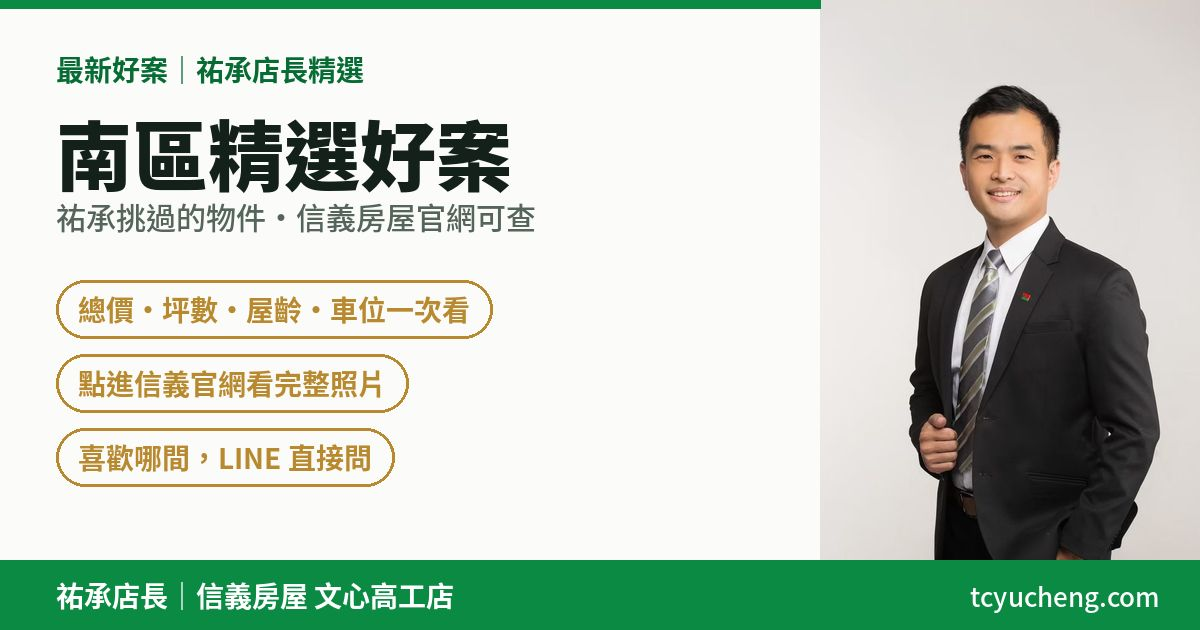
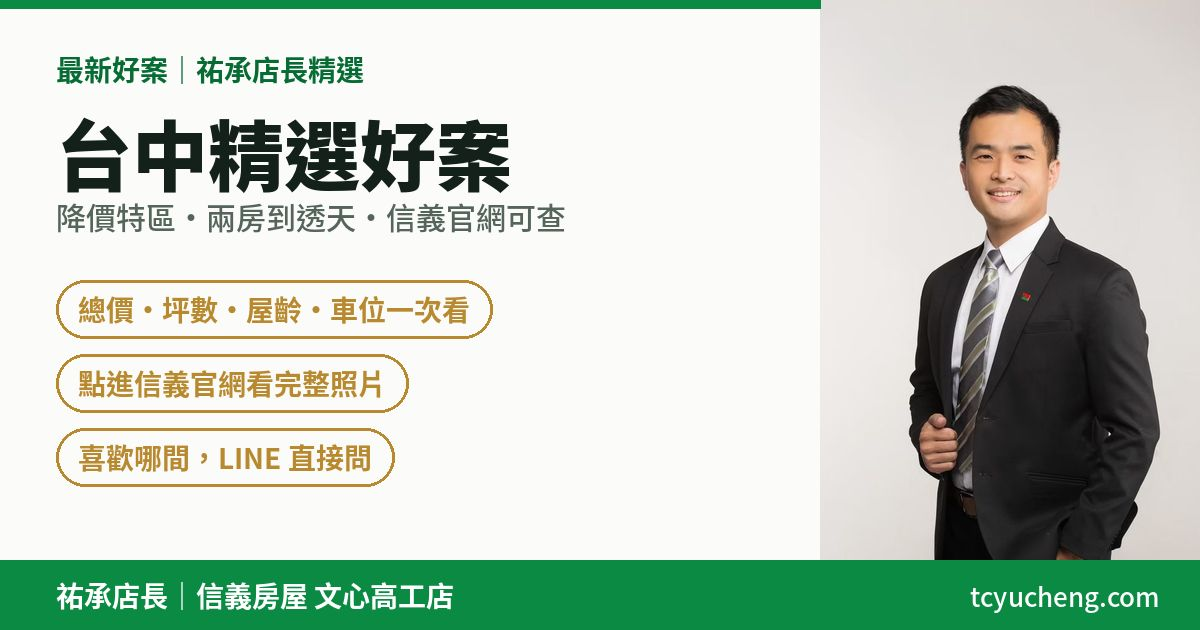
最新好案新增降價特區（16 間，依總價排序），分類列最前面紅色按鈕
資料加在共用的 yucheng-listings-data.js，首頁會一起顯示；
支援 url 欄位，夥伴物件沿用他們提供的 sinyi.in 網址。
預覽圖文字改為台中精選好案。

Claude-Session: https://claude.ai/code/session_01JimB3U73vV1nb3FbKvzZLZ

Changed region(s): [[0.0308, 0.181, 0.4933, 0.3921]]

diff --git a/yucheng-listings-data.js b/yucheng-listings-data.js
@@ -1,8 +1,76 @@
 // 最新好案資料：首頁（tcyucheng.com）與 /yucheng-listings 共用這一份。
 // 改物件只要改這個檔：上下架、價格、照片都會同時更新兩個頁面。
+// url：有填就用這個網址（例如夥伴的 sinyi.in 連結），沒填就用祐承的 sinyi.in/o/<id>/243355/L。
+// hot：true 的分類會用紅色顯眼按鈕，排在最前面。
 const UPDATED = "2026/11/09";
 const AGENT = "243355";
 const CATS = [
+  { key:"sale", name:"降價特區", hot:true, sort:"price", note:"文心高工店夥伴精選・依總價由低到高", items:[
+    { id:"2692QR", url:"https://sinyi.in/o/2692QR/249702", vr:"https://sinyi.biz/668QoLav4", title:"美村商圈綠園道三房", community:"朋莊", road:"南區南和路",
+      price:948, orig:958, ping:"33.51", main:"", land:"", type:"大樓", layout:"3房2廳2衛", age:"31.7年", floor:"16樓／22樓",
+      parking:"", parkingNote:"", fee:"管理費約 1,465 元／月",
+      points:["高樓層三房，視野好","南北朝向，通風好","樓下綠園道，近健康公園"] },
+    { id:"9073FU", url:"https://sinyi.in/o/9073FU/249702", vr:"https://sinyi.biz/7AWhbRJUz", title:"面柳川河畔三房車位", community:"美術林園", road:"南區柳川東路一段",
+      price:998, orig:1068, ping:"39.74", main:"27.56", land:"", type:"大樓", layout:"3房2廳2衛1室", age:"29.3年", floor:"2樓／14樓",
+      parking:"坡道機械", parkingNote:"", fee:"管理費約 3,107 元／月（含車位，雙月繳）",
+      points:["面河畔，視野佳","3＋1 和室好利用","南區、西區、南屯交界"] },
+    { id:"2638UK", url:"https://sinyi.in/o/2638UK/438605/L", vr:"https://sinyi.biz/3bDaTSGF4", title:"小資成家大空間四房附車位", community:"", road:"南區文心南路",
+      price:1060, orig:0, ping:"43.9", main:"", land:"", type:"大樓", layout:"4房2廳2衛", age:"29.8年", floor:"10樓／17樓",
+      parking:"坡道機械", parkingNote:"", fee:"管理費約 2,050 元／月（含車位，雙月繳）",
+      points:["低總價四房，小資好入手","屋況維持良好","近大慶車站"] },
+    { id:"0132BM", url:"https://sinyi.in/o/0132BM/438605/L", vr:"https://sinyi.biz/2GLUEQJQR", title:"青年高中旁臨路美樓店", community:"綠意親境", road:"大里區公園街",
+      price:1098, orig:0, ping:"39.45", main:"33.67", land:"", type:"店面／大樓", layout:"3房2廳2衛（含加蓋1房）", age:"32.0年", floor:"1–2樓／12樓",
+      parking:"", parkingNote:"", fee:"管理費約 1,183 元／月",
+      points:["1–2 樓住店，大空間","近中興商圈","近軟體科學園區"] },
+    { id:"7386HG", url:"https://sinyi.in/o/7386HG/350598", vr:"https://sinyi.biz/3rNjzV2Cq", title:"［綠雅圖］高樓兩房平車", community:"綠雅圖", road:"太平區環中東路三段",
+      price:1188, orig:1256, ping:"34.68", main:"", land:"", type:"大樓", layout:"2房2廳1衛", age:"1.6年", floor:"15樓／15樓",
+      parking:"坡道平面", parkingNote:"", fee:"管理費約 2,385 元／月（含車位，季繳）",
+      points:["新高國小雙語學區","日本三協雙層氣密窗","近馬卡龍公園"] },
+    { id:"8071ML", url:"https://sinyi.in/o/8071ML/350598", vr:"https://sinyi.biz/5PQsSXPkX", title:"［綠雅圖］次頂樓兩房平車", community:"綠雅圖", road:"太平區環中東路三段",
+      price:1188, orig:1256, ping:"35.07", main:"", land:"", type:"大樓", layout:"2房2廳1衛", age:"1.6年", floor:"14樓／15樓",
+      parking:"坡道平面", parkingNote:"", fee:"管理費約 2,380 元／月（含車位，季繳）",
+      points:["次頂樓，新成屋","新高國小雙語學區","樹孝、中山商圈機能便利"] },
+    { id:"6073CV", url:"https://sinyi.in/o/6073CV/438605/L", vr:"", title:"新庄國小旁臨路４樓透天", community:"", road:"東萊路",
+      price:1350, orig:0, ping:"54.12", main:"", land:"24.96", type:"透天／店面", layout:"6房2廳3衛（含加蓋2房）", age:"36.8年", floor:"1–4樓",
+      parking:"", parkingNote:"", fee:"",
+      points:["新庄國小旁，臨路透天","近全聯，採購便利","邊間採光通風佳"] },
+    { id:"0215SN", url:"https://sinyi.in/o/0215SN/350598", vr:"https://sinyi.biz/2YkS3UwSe", title:"三采市政裝潢四房", community:"三采市政天地", road:"南屯區河南路四段",
+      price:1358, orig:1668, ping:"43.52", main:"", land:"", type:"大樓", layout:"4房2廳2衛", age:"29.1年", floor:"10樓／14樓",
+      parking:"", parkingNote:"", fee:"管理費約 2,611 元／月",
+      points:["三采建設，一層兩戶","近惠來公園","格局方正，通風採光佳"] },
+    { id:"7467QH", url:"https://sinyi.in/o/7467QH/350598", vr:"https://sinyi.biz/7ALcoF31Z", title:"［中山醫］兩房視野平車", community:"大家住易", road:"南區建國南路二段",
+      price:1498, orig:1688, ping:"38.77", main:"18.47", land:"", type:"大樓", layout:"2房2廳1衛", age:"9.5年", floor:"9樓／12樓",
+      parking:"坡道平面", parkingNote:"", fee:"管理費約 2,420 元／月（含車位，雙月繳）",
+      points:["邊間格局，衛浴開窗","近中山醫、大慶車站","戶數單純，社區質感佳"] },
+    { id:"9487PX", url:"https://sinyi.in/o/9487PX/438605/L", vr:"", title:"降價求售裝潢震後三房平車", community:"完全社區", road:"南區福田二街",
+      price:1588, orig:1698, ping:"51.89", main:"34.25", land:"", type:"大樓", layout:"3房2廳2衛", age:"25.3年", floor:"2樓／14樓",
+      parking:"坡道平面", parkingNote:"", fee:"管理費約 1,950 元／月（含車位，雙月繳）",
+      points:["格局方正好規劃","近樹仁公園","近愛買，生活機能佳"] },
+    { id:"67055N", url:"https://sinyi.in/o/67055N/249702", vr:"https://sinyi.biz/7Un5PHzVt", title:"中山醫雙鐵共構四房平車", community:"歌德堡", road:"南區德富路",
+      price:1598, orig:0, ping:"50.29", main:"", land:"", type:"華廈", layout:"4房2廳2衛", age:"27.9年", floor:"8樓／9樓",
+      parking:"坡道平面", parkingNote:"", fee:"管理費約 3,103 元／月（含車位，雙月繳）",
+      points:["近中山醫、捷運大慶站","公園旁，平面車位","近愛買，採買方便"] },
+    { id:"6416DS", url:"https://sinyi.in/o/6416DS/249702", vr:"", title:"雙鐵共構三房平車金庫宅", community:"玉山臻邸", road:"南區復興路一段",
+      price:1798, orig:1928, ping:"48.9", main:"25.75", land:"", type:"大樓", layout:"3房2廳2衛", age:"12.3年", floor:"5樓／12樓",
+      parking:"坡道平面", parkingNote:"", fee:"管理費約 3,505 元／月（含車位，雙月繳）",
+      points:["戶數少，三面採光","近大慶火車站、捷運","走路可到愛買、楓康"] },
+    { id:"1833CH", url:"https://sinyi.in/o/1833CH/350598", vr:"https://sinyi.biz/4seUKDrGe", title:"［鼎泰鑫聚］大三房平車", community:"鼎泰鑫-聚", road:"南區建國南路一段",
+      price:1880, orig:0, ping:"50.77", main:"29.19", land:"", type:"大樓", layout:"3房2廳2衛", age:"8.1年", floor:"8樓／12樓",
+      parking:"坡道平面", parkingNote:"車位價 150 萬", fee:"管理費約 4,220 元／月（含車位）",
+      points:["近中山醫學大學","戶數單純，社區質感佳","大慶、五權車站交通便利"] },
+    { id:"7904PB", url:"https://sinyi.in/o/7904PB/249702", vr:"https://sinyi.biz/6rXBYGuDF", title:"明星學區登陽三房平車", community:"", road:"烏日區信義街",
+      price:1988, orig:2088, ping:"45.86", main:"25.06", land:"", type:"大樓", layout:"3房2廳2衛", age:"5.5年", floor:"2樓／14樓",
+      parking:"坡道平面", parkingNote:"車位價 180 萬", fee:"管理費約 3,283 元／月（含車位，季繳）",
+      points:["登陽建設","近明道中學","後方樹海，環境寧靜"] },
+    { id:"9872ST", url:"https://sinyi.in/o/9872ST/438605/L", vr:"https://sinyi.biz/6pXdweFRt", title:"出價可談正五權南路透店", community:"", road:"南區五權南路",
+      price:2280, orig:2500, ping:"74.88", main:"", land:"28.13", type:"店面／透天", layout:"5廳5衛1室（含加蓋1衛1室）", age:"45.7年", floor:"1–5樓",
+      parking:"", parkingNote:"", fee:"",
+      points:["臨約 20 米路，適合做生意","多一層地下室可使用","屋況佳"] },
+    { id:"7941YG", url:"https://sinyi.in/o/7941YG/350598", vr:"https://sinyi.biz/4ajdcYQC2", title:"［登陽中山苑］三房平車", community:"中山苑", road:"南區文心南路",
+      price:2288, orig:2388, ping:"46.43", main:"25.37", land:"", type:"大樓", layout:"3房2廳2衛", age:"13.2年", floor:"14樓／15樓",
+      parking:"坡道平面", parkingNote:"", fee:"管理費約 3,020 元／月",
+      points:["登陽中山苑，高樓層","近大慶車站，交通便利","戶數單純，社區質感佳"] },
+  ]},
   { key:"two", name:"兩房精選", items:[
     { id:"2748QC", vr:"https://sinyi.biz/3rNg34ReN", title:"閱讀城市，高樓大兩房平車", community:"閱讀城市", road:"南區忠明南路",
       price:1198, orig:1268, ping:"32", main:"18.75", land:"", type:"大樓", layout:"2房2廳1衛", age:"21.5年", floor:"7樓／14樓",

diff --git a/yucheng-listings.html b/yucheng-listings.html
@@ -3,19 +3,19 @@
 <head>
 <meta charset="UTF-8">
 <meta name="viewport" content="width=device-width, initial-scale=1, viewport-fit=cover">
-<title>最新好案｜南區精選物件｜房產找祐承</title>
-<meta name="description" content="祐承店長精選台中南區好案：兩房、三房、四房、透天別墅，838 萬起。總價、坪數、屋齡、樓層、車位一次看，點進信義房屋官網看完整資料與互動看屋。">
+<title>最新好案｜降價特區・精選物件｜房產找祐承</title>
+<meta name="description" content="祐承店長精選台中好案：降價特區、兩房、三房、四房、透天別墅，838 萬起。總價、坪數、屋齡、樓層、車位一次看，點進信義房屋官網看完整資料與互動看屋。">
 <link rel="canonical" href="https://tcyucheng.com/yucheng-listings">
 <meta property="og:type" content="website">
 <meta property="og:site_name" content="房產找祐承">
-<meta property="og:title" content="最新好案｜南區兩房・三房・四房・透天別墅精選">
+<meta property="og:title" content="最新好案｜🔥降價特區＋兩房・三房・四房・透天別墅">
 <meta property="og:description" content="838 萬起。總價、坪數、屋齡、車位一次看，點進信義官網看完整照片與互動看屋。">
 <meta property="og:url" content="https://tcyucheng.com/yucheng-listings">
-<meta property="og:image" content="https://tcyucheng.com/og/listings.jpg?v=20261109">
+<meta property="og:image" content="https://tcyucheng.com/og/listings.jpg?v=20261109b">
 <meta property="og:image:width" content="1200">
 <meta property="og:image:height" content="630">
 <meta name="twitter:card" content="summary_large_image">
-<meta name="twitter:image" content="https://tcyucheng.com/og/listings.jpg?v=20261109">
+<meta name="twitter:image" content="https://tcyucheng.com/og/listings.jpg?v=20261109b">
 <link rel="icon" href="/favicon-32.png">
 <link rel="preconnect" href="https://fonts.googleapis.com">
 <link rel="preconnect" href="https://fonts.gstatic.com" crossorigin>
@@ -92,10 +92,19 @@ header.top{position:sticky;top:env(safe-area-inset-top,0px);z-index:5;background
 .cats a small{font-weight:500;margin-left:4px;color:var(--muted)}
 .cats a.on{background:var(--green);color:var(--on-green)}
 .cats a.on small{color:var(--on-green)}
+:root{--hot:#d4380d;--on-hot:#fff}
+.cats a.hot{background:var(--hot);border-color:var(--hot);color:var(--on-hot);font-size:1rem;padding:6px 18px;box-shadow:0 2px 8px rgba(212,56,13,.35)}
+.cats a.hot small{color:var(--on-hot)}
+.cats a.hot.on{outline:3px solid var(--gold);outline-offset:1px}
+.cover .chips span.hot{background:var(--hot);border-color:var(--hot);font-weight:700}
+.mosaic b.hot{background:var(--hot)}
+.cat.hot .cat-head{border-left-color:var(--hot)}
+.cat.hot .cat-head h2{color:var(--hot)}
+.cat.hot .price strong{color:var(--hot)}
 .cat{scroll-margin-top:130px;margin-top:34px}
 .cat-head{display:flex;align-items:baseline;justify-content:space-between;gap:12px;flex-wrap:wrap;border-left:4px solid var(--green);padding-left:12px}
 .cat-head h2{font-size:clamp(1.4rem,4.5vw,1.8rem)}
-.cat-head span{font-size:.85rem;color:var(--muted);white-space:nowrap}
+.cat-head span{font-size:.85rem;color:var(--muted)}
 
 /* 物件卡 */
 .list{display:flex;flex-direction:column;gap:22px;margin-top:16px}
@@ -149,7 +158,7 @@ footer strong{color:var(--fg)}
 <section class="cover" aria-label="封面">
   <div class="cover-text">
     <p class="kicker">最新好案・祐承店長精選</p>
-    <h1>南區<span>精選</span>好案</h1>
+    <h1>台中<span>精選</span>好案</h1>
     <p class="sub" id="coverSub"></p>
     <div class="chips" id="coverChips"></div>
   </div>
@@ -200,19 +209,23 @@ const $ = s => document.querySelector(s);
 const esc = s => String(s).replace(/[&<>"]/g, c => ({"&":"&amp;","<":"&lt;",">":"&gt;",'"':"&quot;"}[c]));
 const wan = n => n.toLocaleString("zh-TW");
 const sinyi = id => `https://sinyi.in/o/${id}/${AGENT}/L`;
+const link = l => l.url || sinyi(l.id);
 const img = id => "https://res.sinyi.com.tw/buy/" + id + "/bigimg/A.JPG";
 const askUrl = t => "https://line.me/R/oaMessage/%40161cayoi/?" + encodeURIComponent(t);
 const ALL = CATS.flatMap(c => c.items);
+const K = Object.fromEntries(CATS.map(c => [c.key, c]));
 
 // 封面
 const minP = Math.min(...ALL.map(l => l.price));
 const uniq = new Set(ALL.map(l => l.id)).size;
-$("#coverSub").textContent = `兩房到透天別墅共 ${uniq} 間，${wan(minP)} 萬起。總價、坪數、屋齡、車位一次看，喜歡就點進信義官網看完整照片或互動看屋。`;
-$("#coverChips").innerHTML = CATS.map(c => `<a href="#${c.key}" style="color:#fff;text-decoration:none"><span>${esc(c.name.replace("精選",""))} ${c.items.length}</span></a>`).join("");
-$("#mosaic").innerHTML = [CATS[0].items[0], CATS[1].items[0], CATS[2].items[0], CATS[3].items[0], CATS[1].items[1]].map((l,i) =>
-  `<a href="#${CATS[i<4?i:1].key}" aria-label="${esc(CATS[i<4?i:1].name)}"><img src="${img(l.id)}" alt="" loading="eager" referrerpolicy="no-referrer"><b>${esc(CATS[i<4?i:1].name.replace("精選",""))}</b></a>`).join("");
+$("#coverSub").textContent = `降價特區＋兩房到透天別墅，共 ${uniq} 間，${wan(minP)} 萬起。總價、坪數、屋齡、車位一次看，喜歡就點進信義官網看完整照片或互動看屋。`;
+$("#coverChips").innerHTML = CATS.map(c => `<a href="#${c.key}" style="color:#fff;text-decoration:none"><span${c.hot ? ' class="hot"' : ""}>${c.hot ? "🔥 " : ""}${esc(c.name.replace("精選",""))} ${c.items.length}</span></a>`).join("");
+$("#mosaic").innerHTML = ["sale","two","three","four","villa"].filter(k => K[k] && K[k].items.length).slice(0,5).map(k => {
+  const c = K[k], l = c.items[0];
+  return `<a href="#${k}" aria-label="${esc(c.name)}"><img src="${img(l.id)}" alt="" loading="eager" referrerpolicy="no-referrer"><b${c.hot ? ' class="hot"' : ""}>${esc(c.name.replace("精選",""))}</b></a>`;
+}).join("");
 $("#updated").textContent = `更新日 ${UPDATED}・資料以信義房屋官網為準`;
-$("#cats").innerHTML = CATS.map(c => `<a href="#${c.key}">${esc(c.name.replace("精選",""))}<small>${c.items.length}</small></a>`).join("");
+$("#cats").innerHTML = CATS.map(c => `<a href="#${c.key}"${c.hot ? ' class="hot"' : ""}>${c.hot ? "🔥 " : ""}${esc(c.name.replace("精選",""))}<small>${c.items.length}</small></a>`).join("");
 
 // 物件卡
 function card(l, i, key) {
@@ -222,7 +235,7 @@ function card(l, i, key) {
   const where = [l.community, l.road, l.id].filter(Boolean).map(esc).join("・");
   const ask = `祐承店長你好，我想問這間：${l.title}（${wan(l.price)} 萬，${l.id}）`;
   return `<article class="card" id="${key}-${l.id}">
-    <a class="photo" href="${sinyi(l.id)}" target="_blank" rel="noopener" aria-label="在信義官網看 ${esc(l.title)} 的照片">
+    <a class="photo" href="${link(l)}" target="_blank" rel="noopener" aria-label="在信義官網看 ${esc(l.title)} 的照片">
       <img src="${img(l.id)}" alt="${esc(l.title)} 物件照片" loading="lazy" referrerpolicy="no-referrer">
       <span class="no">${i+1}</span><span class="more">看全部照片 ↗</span>
     </a>
@@ -234,7 +247,7 @@ function card(l, i, key) {
       <ul class="points">${l.points.map(p => `<li>${esc(p)}</li>`).join("")}</ul>
       ${l.fee ? `<p class="fee">${esc(l.fee)}</p>` : ""}
       <div class="actions">
-        <a class="btn solid" href="${sinyi(l.id)}" target="_blank" rel="noopener">信義官網看詳情</a>
+        <a class="btn solid" href="${link(l)}" target="_blank" rel="noopener">信義官網看詳情</a>
         ${l.vr ? `<a class="btn ghost" href="${esc(l.vr)}" target="_blank" rel="noopener">互動看屋</a>` : ""}
         <a class="btn ghost" href="${askUrl(ask)}" target="_blank" rel="noopener">LINE 問這間</a>
       </div>
@@ -243,8 +256,8 @@ function card(l, i, key) {
 }
 $("#sections").innerHTML = CATS.map(c => {
   const lo = Math.min(...c.items.map(l => l.price)), hi = Math.max(...c.items.map(l => l.price));
-  return `<section class="cat" id="${c.key}" aria-labelledby="h-${c.key}">
-    <div class="cat-head"><h2 id="h-${c.key}">${esc(c.name)}</h2><span>${c.items.length} 間・${wan(lo)}–${wan(hi)} 萬</span></div>
+  return `<section class="cat${c.hot ? " hot" : ""}" id="${c.key}" aria-labelledby="h-${c.key}">
+    <div class="cat-head"><h2 id="h-${c.key}">${c.hot ? "🔥 " : ""}${esc(c.name)}</h2><span>${c.items.length} 間・${wan(lo)}–${wan(hi)} 萬${c.note ? "・" + esc(c.note) : ""}</span></div>
     <div class="list">${c.items.map((l,i) => card(l, i, c.key)).join("")}</div>
   </section>`;
 }).join("");

diff --git a/scripts/yucheng/og.py b/scripts/yucheng/og.py
@@ -144,7 +144,7 @@ def main():
                    pills=["每個社區的近一年實登單價", f"{len(ids)} 個社區購屋分析", "每月自動更新實價登錄"]), "communities.jpg")
     n += save(card("祐承的商圈", "地段地圖", "南區・東區・大里 66 里地段力評分",
                    pills=["學區・車站・生活機能", "每一里的地段分數", "疊上社區行情一起看"]), "location.jpg")
-    n += save(card("最新好案｜祐承店長精選", "南區精選好案", "祐承挑過的物件・信義房屋官網可查",
+    n += save(card("最新好案｜祐承店長精選", "台中精選好案", "降價特區・兩房到透天・信義官網可查",
                    pills=["總價・坪數・屋齡・車位一次看", "點進信義官網看完整照片", "喜歡哪間，LINE 直接問"]), "listings.jpg")
     for c in C:
         if c["id"] not in ids:
